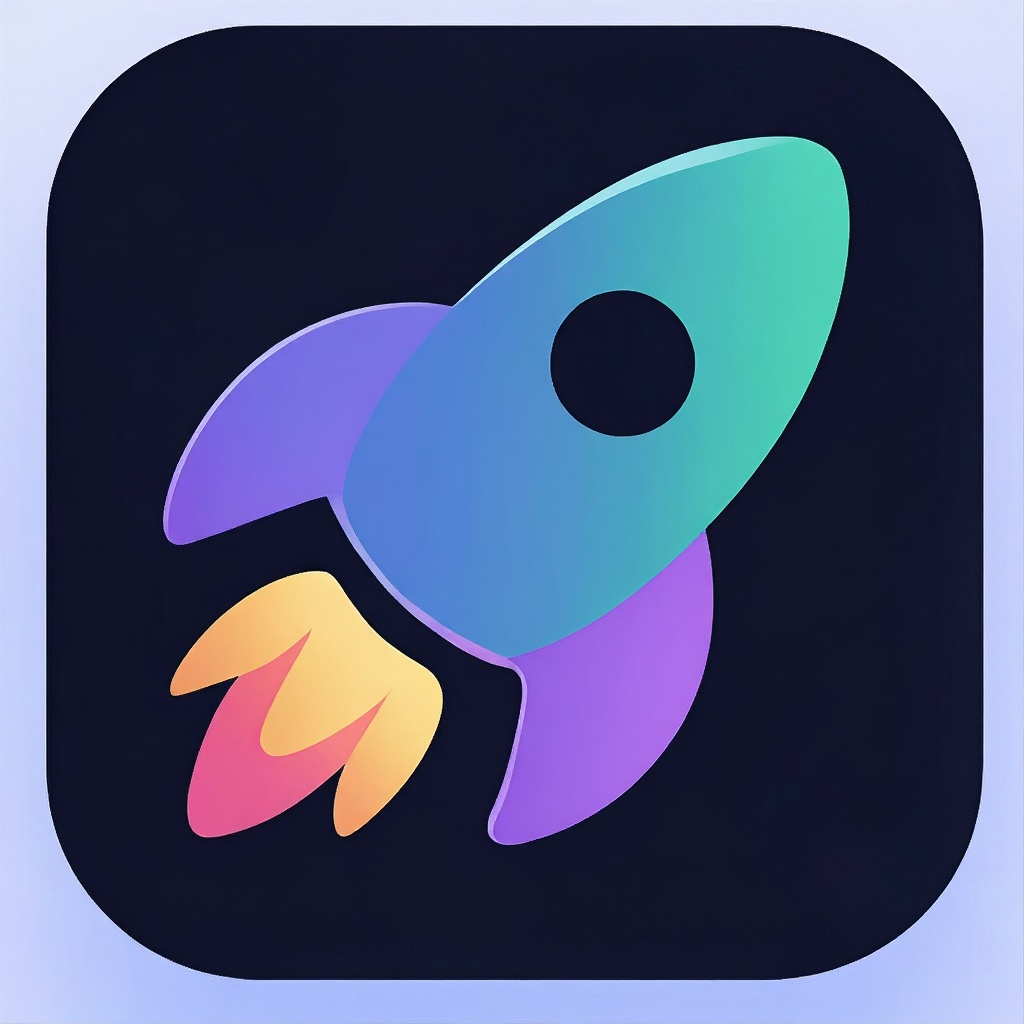
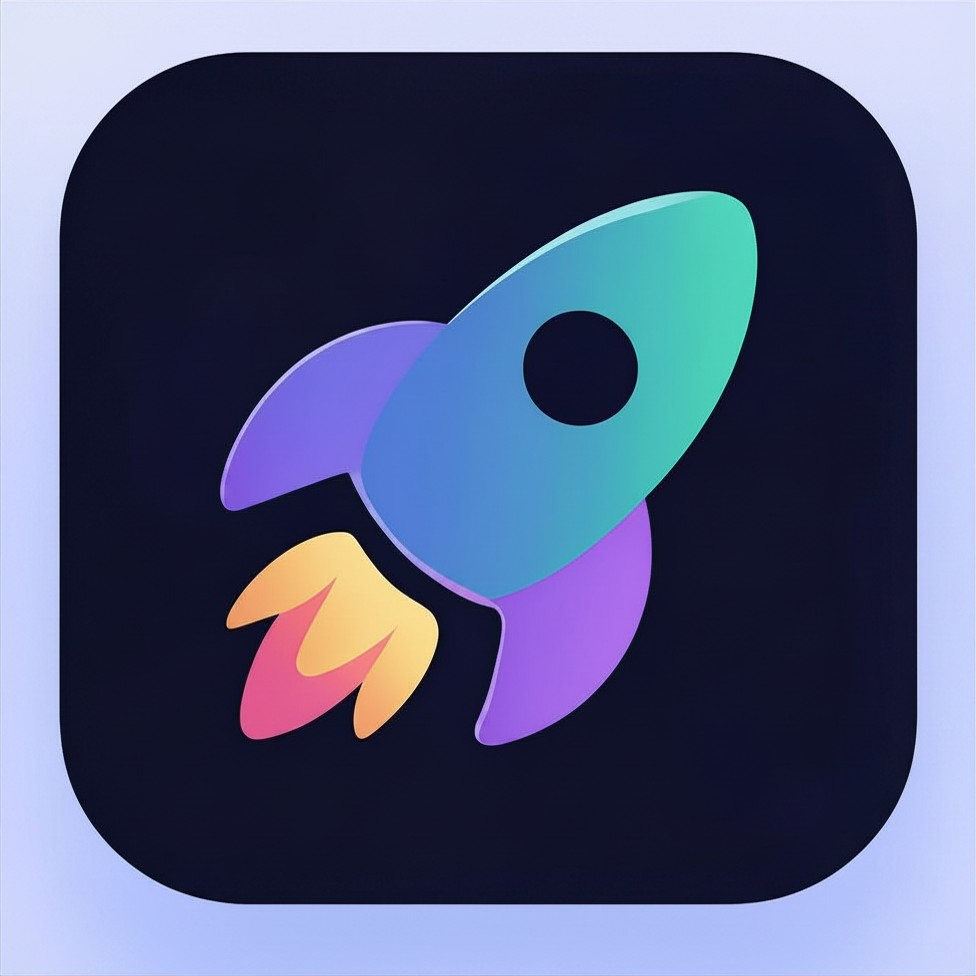
feat: ícone oficial com margem correta — sem corte na home screen

Changed region(s): [[0.1537, 0.123, 0.8299, 0.8299], [0.0307, 0.0, 0.9836, 0.9836]]

diff --git a/src/App.jsx b/src/App.jsx
@@ -509,7 +509,7 @@ const Splash = ({ onDone }) => {
   return (
     <div style={{ minHeight: "100vh", background: T.darker, display: "flex", flexDirection: "column", alignItems: "center", justifyContent: "center" }}>
       <div style={{ animation: "bounceIn 0.6s cubic-bezier(0.34,1.56,0.64,1)", textAlign: "center" }}>
-        <img src="/icon.svg" alt="RotinUp" style={{ width: 110, height: 110, marginBottom: 20, borderRadius: 28, filter: `drop-shadow(0 0 24px #9B5DE566)` }} />
+        <img src="/icon.png" alt="RotinUp" style={{ width: 110, height: 110, marginBottom: 20, borderRadius: 28, filter: `drop-shadow(0 0 24px #9B5DE566)` }} />
         <div style={{ fontSize: 38, fontWeight: 900, color: T.text, letterSpacing: -2, fontFamily: "'Nunito', sans-serif" }}>rotin<span style={{ color: T.primary }}>up</span></div>
         <div style={{ color: T.textMuted, fontSize: 13, marginTop: 8, letterSpacing: 2 }}>TRANSFORME A ROTINA EM AVENTURA</div>
       </div>
@@ -537,7 +537,7 @@ const LandingPage = ({ onSignup, onLogin }) => {
       <div style={{ background: `linear-gradient(160deg, ${T.darker} 0%, #1A0A2E 100%)`, padding: "60px 28px 50px", textAlign: "center", position: "relative", overflow: "hidden" }}>
         <div style={{ position: "absolute", top: -60, right: -60, width: 200, height: 200, borderRadius: "50%", background: `radial-gradient(circle, ${T.primary}22, transparent)`, pointerEvents: "none" }} />
         <div style={{ position: "absolute", bottom: -40, left: -40, width: 160, height: 160, borderRadius: "50%", background: `radial-gradient(circle, ${T.purple}22, transparent)`, pointerEvents: "none" }} />
-        <img src="/icon.svg" alt="RotinUp" style={{ width: 100, height: 100, marginBottom: 16, borderRadius: 24, animation: "bounceIn 0.6s cubic-bezier(0.34,1.56,0.64,1)", filter: "drop-shadow(0 0 28px #9B5DE555)" }} />
+        <img src="/icon.png" alt="RotinUp" style={{ width: 100, height: 100, marginBottom: 16, borderRadius: 24, animation: "bounceIn 0.6s cubic-bezier(0.34,1.56,0.64,1)", filter: "drop-shadow(0 0 28px #9B5DE555)" }} />
         <div style={{ fontSize: 36, fontWeight: 900, color: T.text, letterSpacing: -2, marginBottom: 6, fontFamily: "'Nunito', sans-serif" }}>rotin<span style={{ color: T.primary }}>up</span></div>
         <div style={{ color: T.textMuted, fontSize: 16, marginBottom: 10, letterSpacing: 1 }}>TRANSFORME A ROTINA EM AVENTURA</div>
         <div style={{ color: "rgba(255,255,255,0.7)", fontSize: 15, lineHeight: 1.6, maxWidth: 320, margin: "0 auto 36px" }}>
@@ -716,7 +716,7 @@ const AuthScreen = ({ initialMode = "login" }) => {
     <div style={{ minHeight: "100vh", background: T.darker, display: "flex", flexDirection: "column", padding: "0 24px" }}>
       <Notif msg={notif} type={notifType} />
       <div style={{ textAlign: "center", paddingTop: 50, marginBottom: 32 }}>
-        <img src="/icon.svg" alt="RotinUp" style={{ width: 80, height: 80, borderRadius: 22, marginBottom: 12, filter: "drop-shadow(0 0 16px #9B5DE555)" }} />
+        <img src="/icon.png" alt="RotinUp" style={{ width: 80, height: 80, borderRadius: 22, marginBottom: 12, filter: "drop-shadow(0 0 16px #9B5DE555)" }} />
         <div style={{ fontSize: 26, fontWeight: 900, color: T.text, letterSpacing: -1, fontFamily: "'Nunito', sans-serif" }}>rotin<span style={{ color: T.primary }}>up</span></div>
         <div style={{ color: T.textMuted, fontSize: 13, marginTop: 4 }}>{mode === "login" ? "Bem-vindo de volta!" : "Crie sua conta gratuita"}</div>
       </div>

diff --git a/vite.config.js b/vite.config.js
@@ -10,7 +10,7 @@ export default defineConfig({
       srcDir: 'src',
       filename: 'sw.js',
       registerType: 'autoUpdate',
-      includeAssets: ['icon.svg', 'favicon.svg'],
+      includeAssets: ['icon.png', 'icon.svg', 'favicon.svg'],
       manifest: {
         name: 'RotinUp',
         short_name: 'RotinUp',
@@ -23,16 +23,16 @@ export default defineConfig({
         scope: '/',
         icons: [
           {
-            src: '/icon.svg',
-            sizes: 'any',
-            type: 'image/svg+xml',
-            purpose: 'any',
+            src: '/icon.png',
+            sizes: '512x512',
+            type: 'image/png',
+            purpose: 'any maskable',
           },
           {
             src: '/icon.svg',
             sizes: 'any',
             type: 'image/svg+xml',
-            purpose: 'maskable',
+            purpose: 'any',
           },
         ],
         categories: ['education', 'lifestyle', 'kids'],
